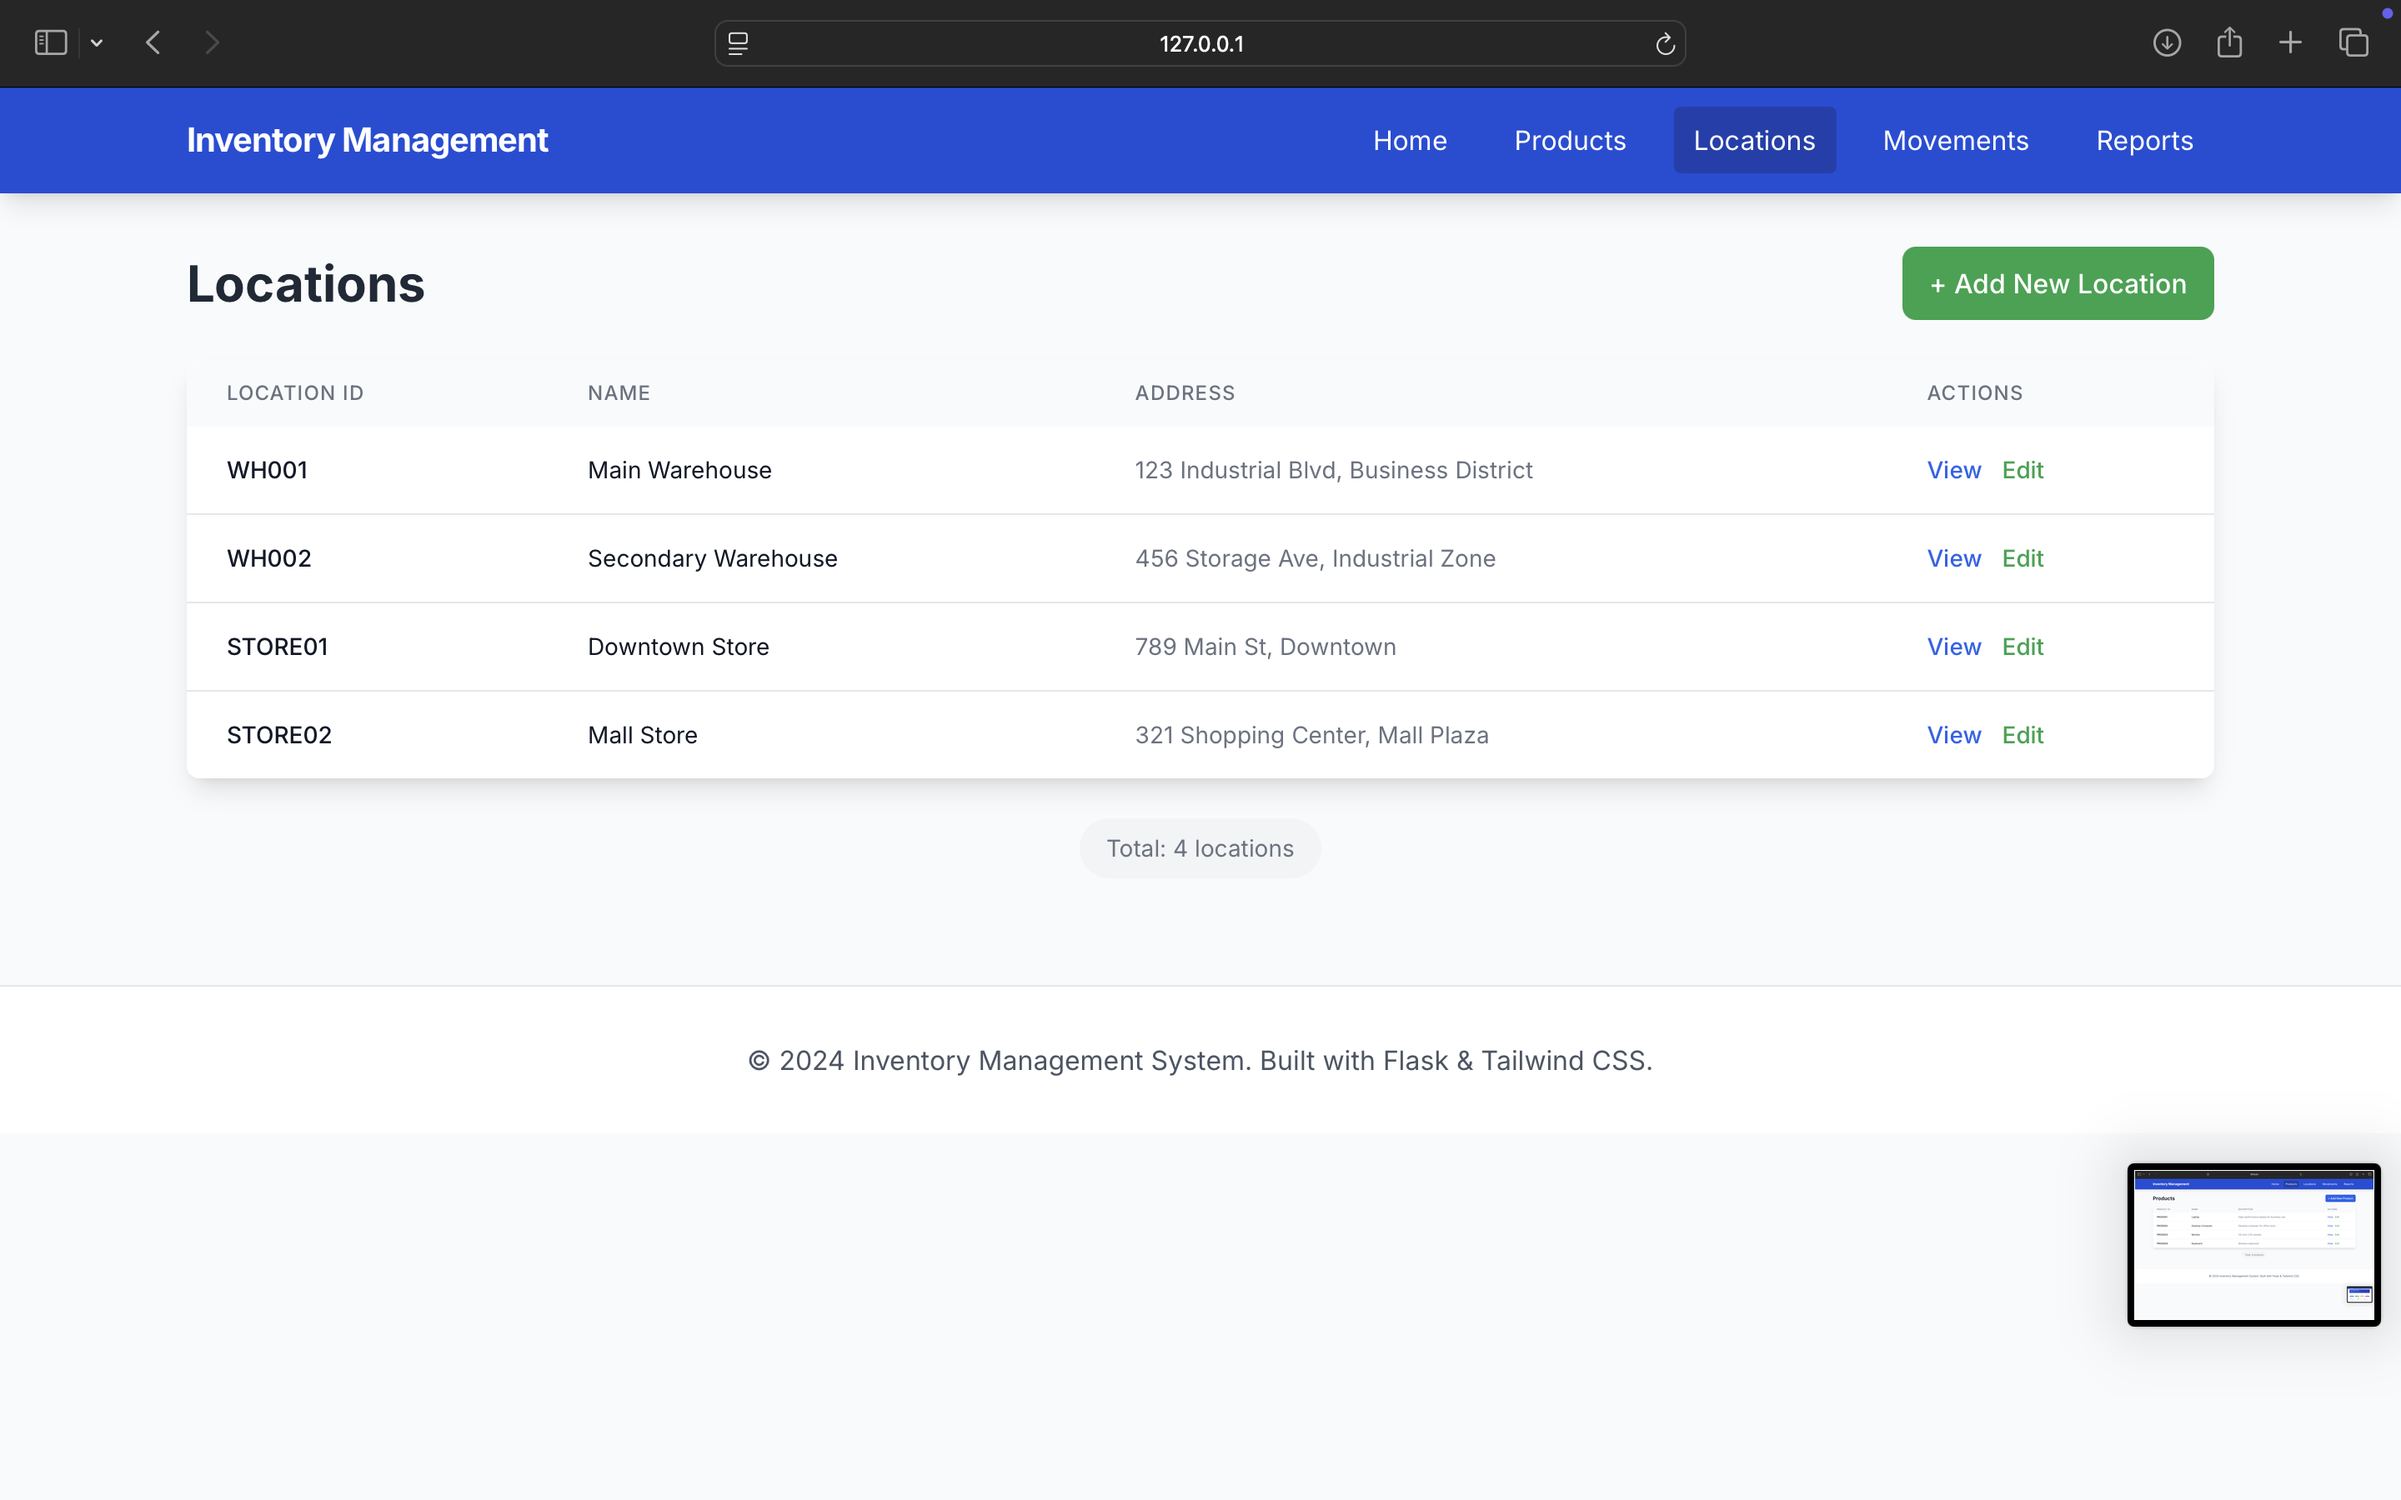
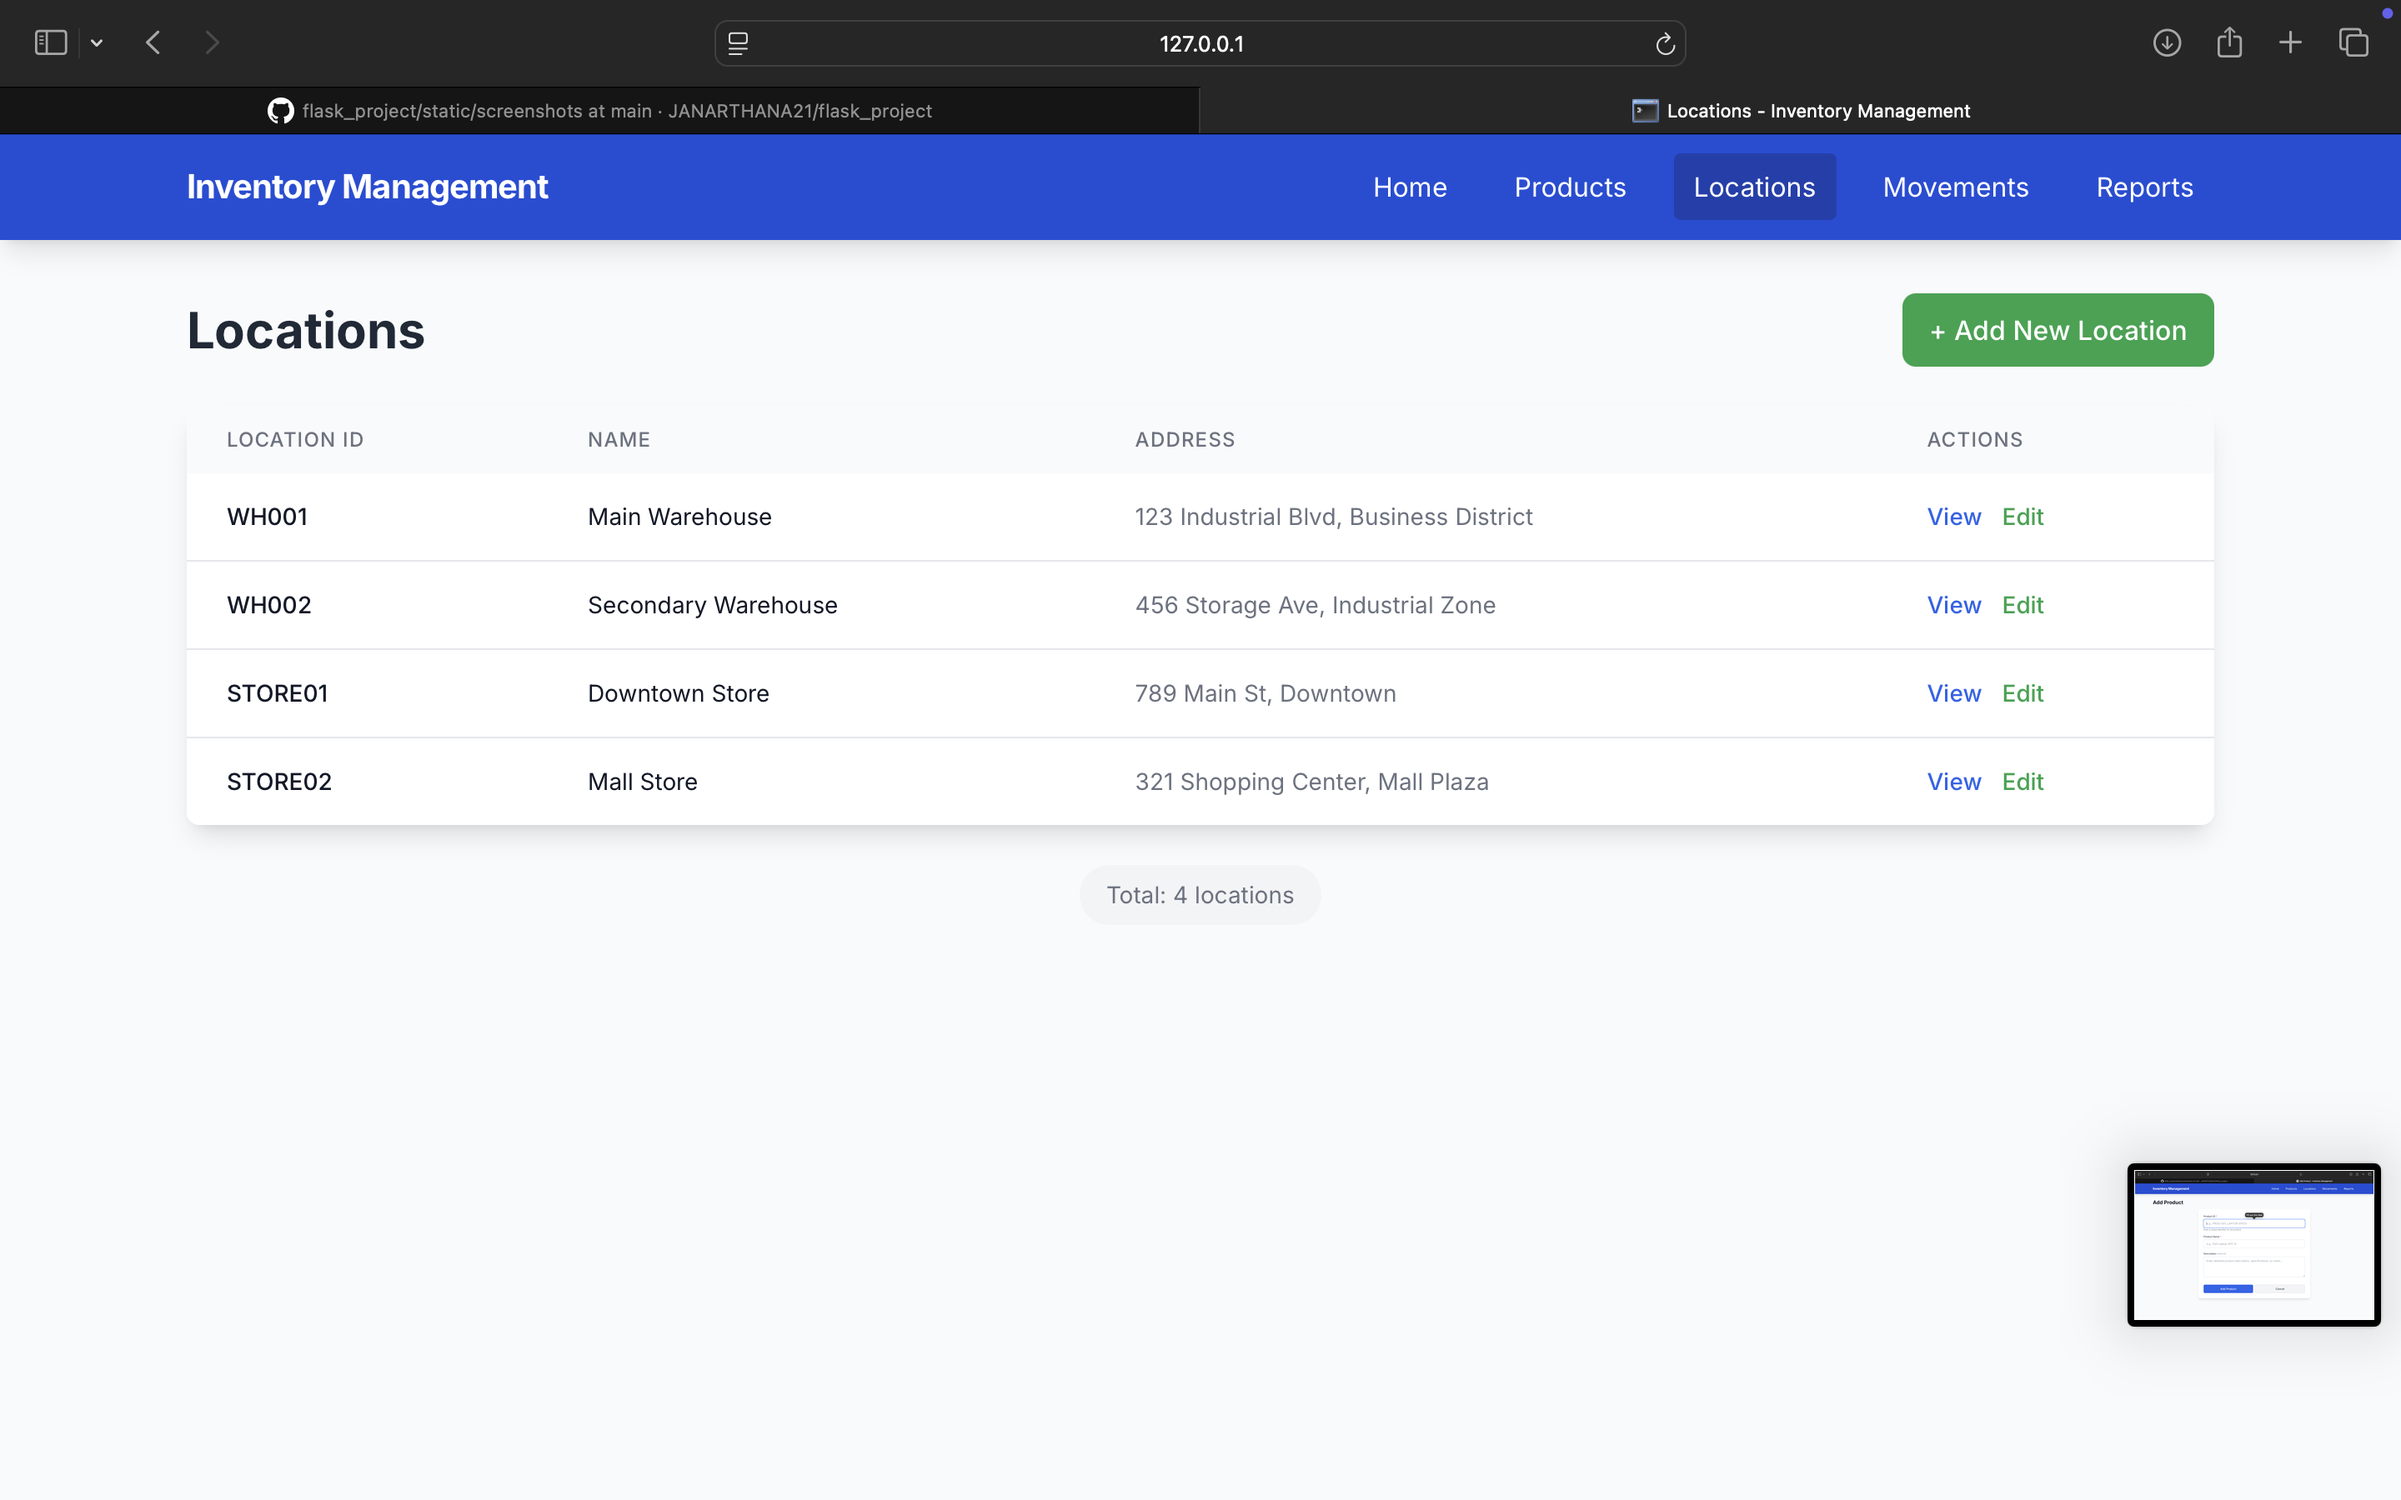
flask app

diff --git a/README.md b/README.md
@@ -44,7 +44,8 @@ python3 app.py
 ### Step 7: See Your App in Action! 
 Open your web browser and go to: **http://127.0.0.1:5002**
 
-````
+```bash
+
 flask-inventory/
 ├── app.py                 # Main Flask app (this is where everything starts!)
 ├── seed_data.py          # Creates example data for you to try
@@ -64,7 +65,7 @@ flask-inventory/
 │   │   ├── add.html     # Add new location
 │   │   └── edit.html    # Edit existing location
 │   ├── movements/       # Movement tracking pages
-│   │   ├── index.html   # List all movements
+│   │   ├── index.html   # List all movements`
 │   │   └── add.html     # Record new movement
 │   └── reports/         # Reports and analytics
 │       └── stock_balance.html  # Stock balance report
@@ -79,8 +80,14 @@ flask-inventory/
 ### PRODUCTS  
 ![Locations](static/screenshots/products.png)
 
+### ADD PRODUCTS  
+![Locations](static/screenshots/addProducts.png)
+
 ### LOCATIONS
 ![Products](static/screenshots/locations.png)
+
+### ADD LOCATIONS`
+![Products](static/screenshots/addLocations.png)
 
 ### MOVEMENTS
 ![Movements](static/screenshots/movements.png)
